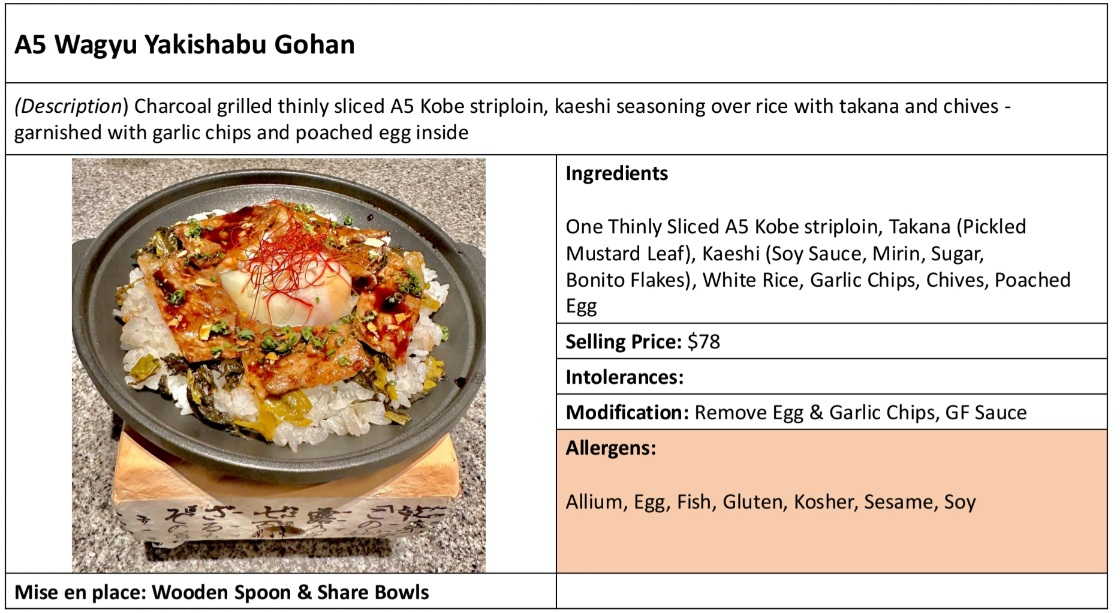
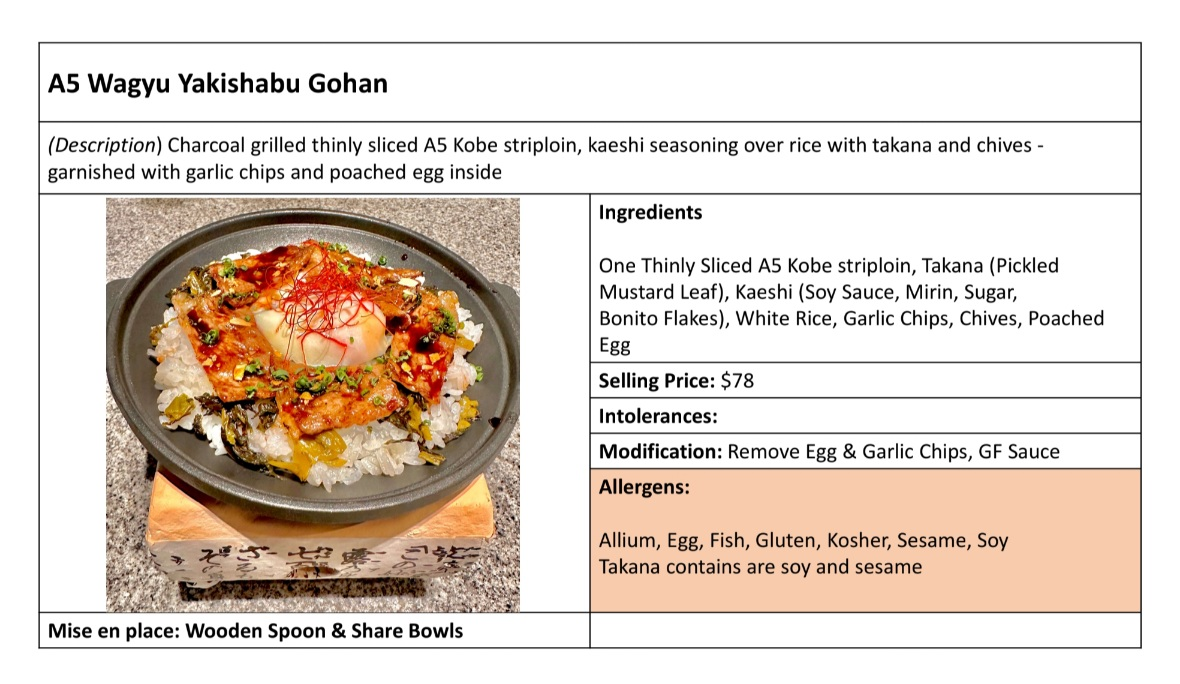
update pic: yakishabu gohan

diff --git a/app/manager/page.jsx b/app/manager/page.jsx
@@ -3476,7 +3476,7 @@ export default function ManagerDinnerPage() {
           <div className='modal-content'>
           
           <div>
-            <img src='yakishabu-gohan.jpg' />
+            <img src={`yakishabu-gohan.jpg?v={Date.now()}`} />
           </div>
           <div className='modal-text'>
                         

diff --git a/app/page.jsx b/app/page.jsx
@@ -3551,7 +3551,7 @@ appetizers, seasonal plates, and dessert.
           <div className='modal-content'>
           
           <div>
-            <img src='yakishabu-gohan.jpg' />
+            <img src={`yakishabu-gohan.jpg?v={Date.now()}`} />
           </div>
           <div className='modal-text'>
                         
